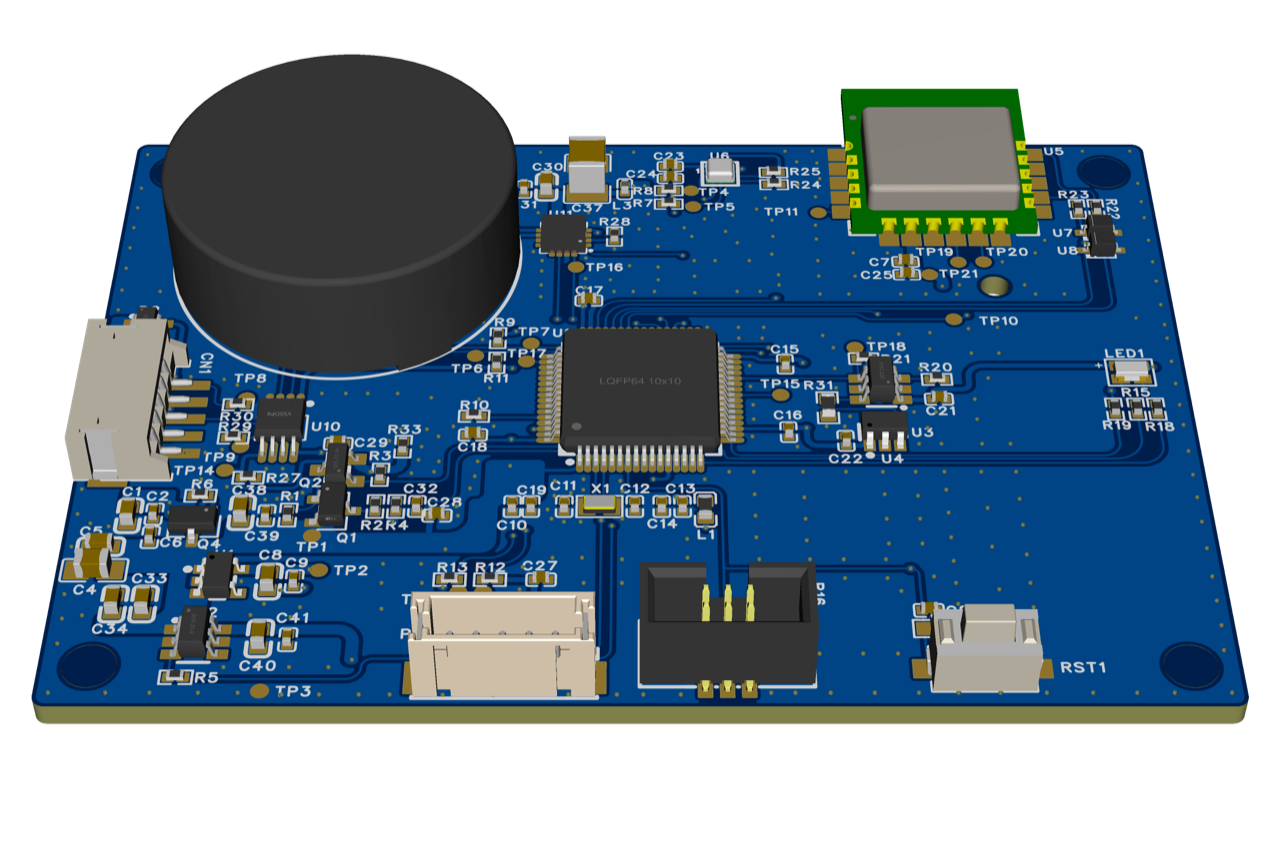
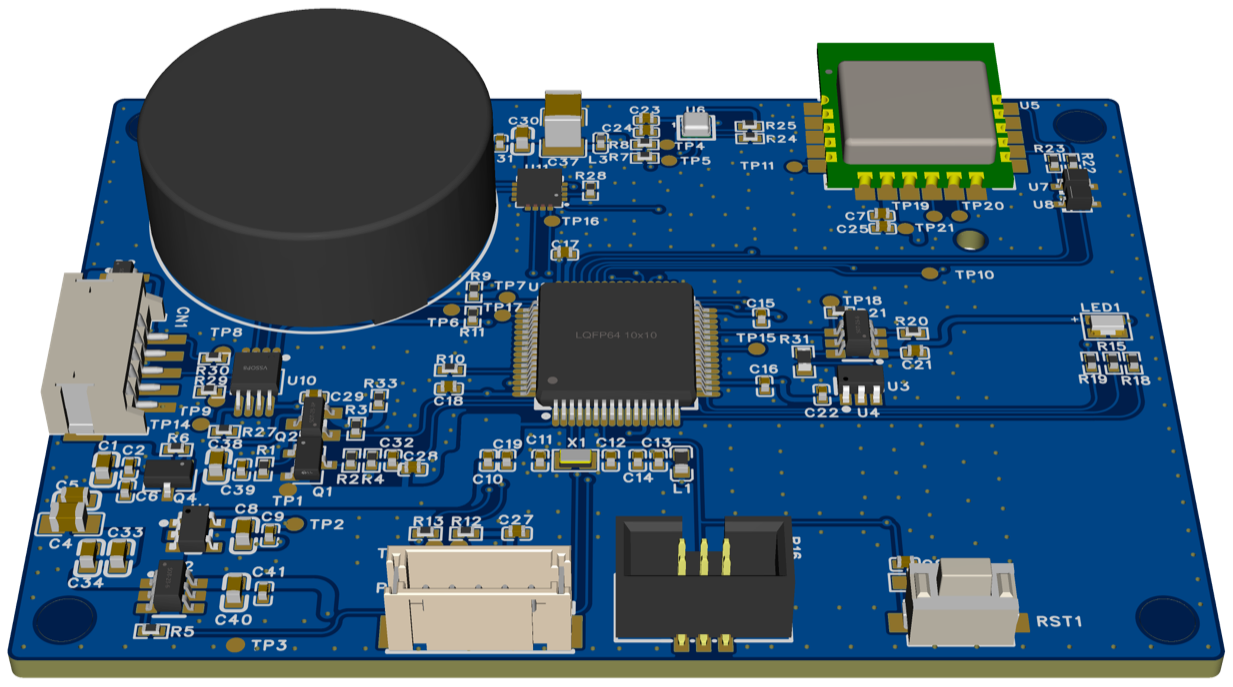
restyle(p3): tighten rhythm to 40/48 and trim iap render margins

diff --git a/src/index.css b/src/index.css
@@ -77,16 +77,17 @@ body {
 
 /*
  * Section vertical rhythm (single source of truth — tune these two values
- * to re-space every home/secondary section at once). Current: 48px mobile,
- * 64px ≥sm (the "comfortable" rhythm chosen over the original 64/96).
+ * to re-space every home/secondary section at once). Current: 40px mobile,
+ * 48px ≥sm → ~96px visible gap between adjacent sections (tightened twice
+ * from the original 64/96 → 48/64 → 40/48 per owner feedback).
  */
 :root {
-  --section-y: 48px;
+  --section-y: 40px;
 }
 
 @media (min-width: 640px) {
   :root {
-    --section-y: 64px;
+    --section-y: 48px;
   }
 }
 

diff --git a/src/content/site.en.ts b/src/content/site.en.ts
@@ -95,8 +95,8 @@ export const siteEn: SiteContent = {
           {
             src: "/iap-pcb-3d.png",
             alt: "IAP hardware 3D render: PCB design with LQFP64 MCU and peripheral interfaces",
-            width: 1280,
-            height: 845
+            width: 1233,
+            height: 687
           }
         ]
       }

diff --git a/src/content/site.zh.ts b/src/content/site.zh.ts
@@ -90,8 +90,8 @@ export const siteZh: SiteContent = {
           {
             src: "/iap-pcb-3d.png",
             alt: "IAP 硬件 3D 渲染：LQFP64 主控与外设接口的 PCB 设计",
-            width: 1280,
-            height: 845
+            width: 1233,
+            height: 687
           }
         ]
       }

diff --git a/docs/58BEGIN_REDESIGN_VISUAL_RULES.md b/docs/58BEGIN_REDESIGN_VISUAL_RULES.md
@@ -33,8 +33,8 @@ Tag/badge chip:           rounded-full
 ```text
 max-width: 1440px（max-w-site）
 容器水平留白: 20px → 32px(sm) → 40px(lg)
-分区纵向节奏: .section-y = var(--section-y) = 48px（移动）→ 64px（≥sm）
-              （方案 A 收紧：原 py-16 sm:py-24 = 64/96px；全站共享，调距只改这两个值）
+分区纵向节奏: .section-y = var(--section-y) = 40px（移动）→ 48px（≥sm）
+              （两轮收紧：64/96 → 48/64 → 40/48；全站共享，调距只改这两个值）
 标题→内容:    mt-8（32px）
 收尾带内边距: py-14（56px）→ sm:py-20（80px）
 分区底色带:   bg-surface-2/3/4 = 黑 8%/4%/2%（斑马交替）
